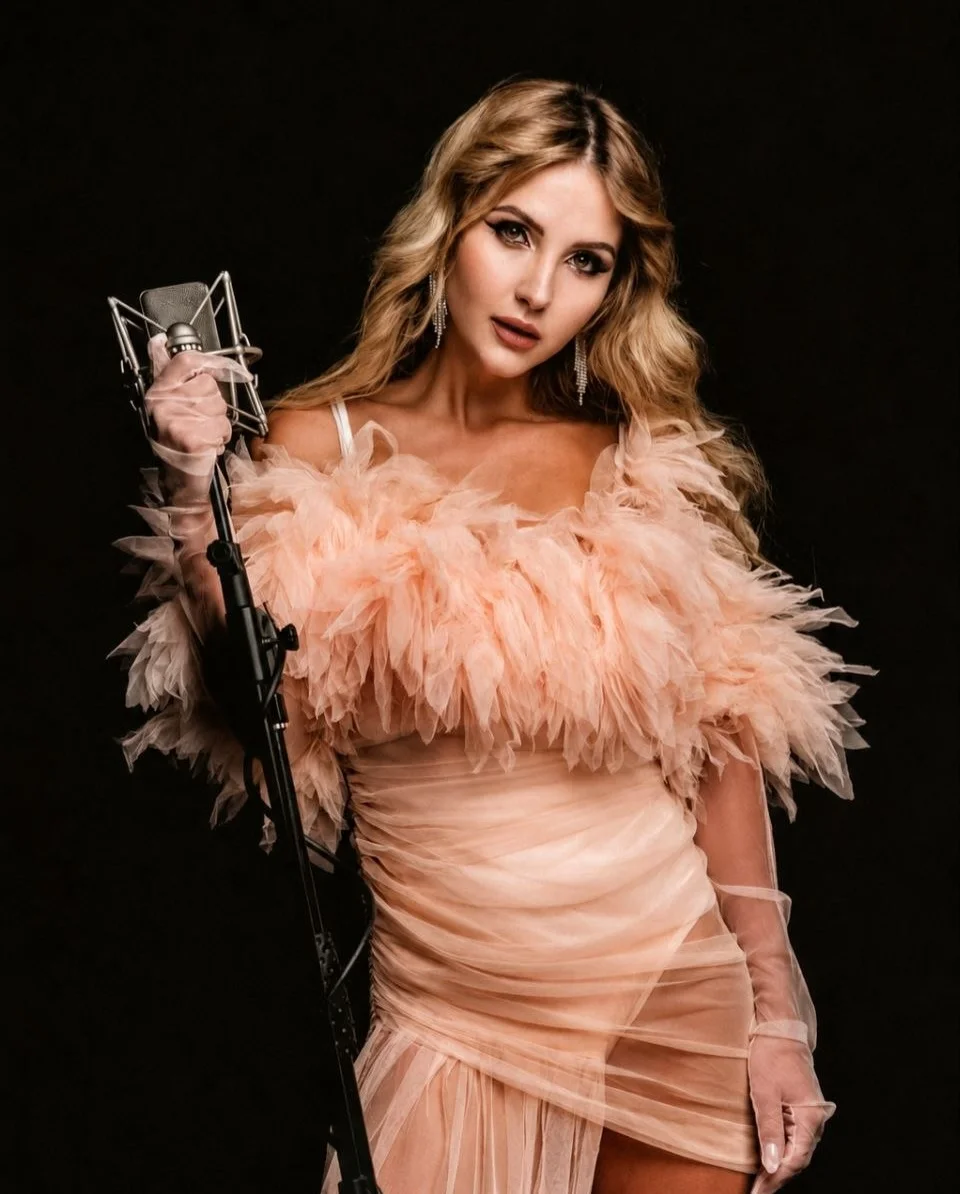
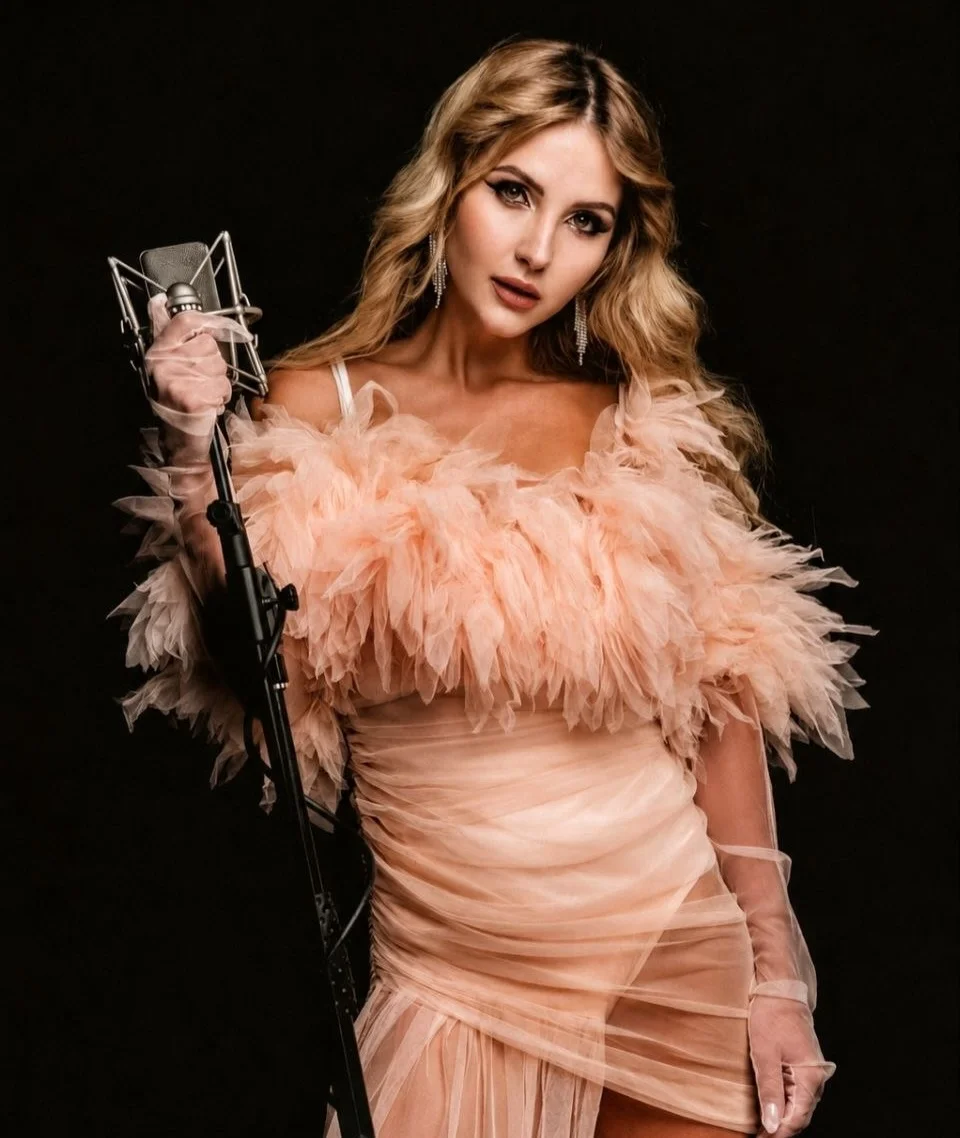
add: popup in About Section

diff --git a/src/components/About.tsx b/src/components/About.tsx
@@ -1,6 +1,11 @@
-import React from "react";
+"use client";
+
+import React, { useState } from "react";
+import { motion, AnimatePresence } from "framer-motion";
 
 export default function About() {
+  const [showAward, setShowAward] = useState(false);
+
   return (
     <section
       id="about"
@@ -24,7 +29,7 @@ export default function About() {
       </div>
 
       {/* Content Columns */}
-      <div className="flex flex-col lg:flex-row gap-12 lg:gap-20 items-start w-full">
+      <div className="flex flex-col lg:flex-row gap-12 lg:gap-20 lg:items-stretch items-center w-full">
         {/* Left Column - Image Stack */}
         <div className="relative w-full sm:w-[80%] md:w-[60%] lg:w-[40%] flex-shrink-0 flex flex-col">
           {/* Third Layer */}
@@ -56,24 +61,107 @@ export default function About() {
         </div>
 
         {/* Right Column - Text */}
-        <div className="w-full lg:w-[60%] flex flex-col gap-6 mt-8 lg:mt-0 py-4 text-base md:text-lg lg:text-xl text-gray-300 leading-relaxed font-medium">
+        <div className="w-full lg:w-[60%] flex flex-col justify-center gap-6 mt-8 lg:mt-0 py-4 text-base md:text-lg lg:text-xl text-gray-300 leading-relaxed font-medium">
           <p>
-            I am <strong className="text-white font-bold">SHAHOVA</strong> — a singer, songwriter, and live performer, creating elegant live music for weddings, private celebrations, corporate events, and exclusive occasions.
+            I am <strong className="text-white font-bold">SHAHOVA</strong> — a
+            singer, songwriter, and live performer, creating elegant live music
+            for weddings, private celebrations, corporate events, and exclusive
+            occasions.
           </p>
           <p>
-            Known for emotionally rich vocals, refined stage presence, and genuine connection with every audience, I believe that live music should never be just background—it should become one of the most memorable parts of your event.
+            Known for emotionally rich vocals, refined stage presence, and
+            genuine connection with every audience, I believe that live music
+            should never be just background — it should become one of the most
+            memorable parts of your event.
           </p>
           <p>
-            Alongside performing, I write original music in <strong className="text-white font-bold">English</strong>, <strong className="text-white font-bold">Ukrainian</strong>, and <strong className="text-white font-bold">Spanish</strong>, with more than <strong className="text-white font-bold">20 original songs</strong> released and written for both my own projects and other artists.
+            Alongside performing, I write original music in{" "}
+            <strong className="text-white font-bold">English</strong>,{" "}
+            <strong className="text-white font-bold">Ukrainian</strong>, and{" "}
+            <strong className="text-white font-bold">Spanish</strong>, with more
+            than{" "}
+            <strong className="text-white font-bold">20 original songs</strong>{" "}
+            released and written for both my own projects and other artists.
           </p>
           <p>
-            In <strong className="text-white font-bold">2025</strong>, my original song <strong className="text-white font-bold">Moonlight</strong> received <strong className="text-white font-bold">1st Place</strong> at the <strong className="text-white font-bold">London Songwriting Competition</strong>, while both the song and its official music video gained international recognition.
+            In <strong className="text-white font-bold">2025</strong>, my
+            original song{" "}
+            <strong className="text-white font-bold">Moonlight</strong> received{" "}
+            <span
+              className="cursor-pointer group"
+              onClick={() => setShowAward(true)}
+            >
+              <strong className="text-white font-bold group-hover:text-red-600 transition-colors duration-300">
+                1st Place
+              </strong>
+              <span className="group-hover:text-red-600 transition-colors duration-300">
+                {" at the "}
+              </span>
+              <strong className="text-white font-bold group-hover:text-red-600 transition-colors duration-300">
+                London Songwriting Competition
+              </strong>
+            </span>
+            , while both the song and its official music video gained
+            international recognition.
           </p>
           <p>
-            Every performance is thoughtfully tailored to the atmosphere of the occasion, creating an elegant musical experience that brings people together and leaves lasting memories long after the final note.
+            Every performance is thoughtfully tailored to the atmosphere of the
+            occasion, creating an elegant musical experience that brings people
+            together and leaves lasting memories long after the final note.
           </p>
         </div>
       </div>
+
+      {/* Award Modal */}
+      <AnimatePresence>
+        {showAward && (
+          <motion.div
+            initial={{ opacity: 0 }}
+            animate={{ opacity: 1 }}
+            exit={{ opacity: 0 }}
+            className="fixed inset-0 z-[60] flex items-center justify-center px-4 pb-4 pt-20 bg-black/60 backdrop-blur-2xl"
+            onClick={() => setShowAward(false)}
+          >
+            <motion.div
+              initial={{ y: 50, opacity: 0, scale: 0.95 }}
+              animate={{ y: 0, opacity: 1, scale: 1 }}
+              exit={{ y: 20, opacity: 0, scale: 0.95 }}
+              transition={{ type: "spring", stiffness: 300, damping: 30 }}
+              className="relative w-full max-w-2xl bg-[#0f0f0f] border border-white/10 p-8 md:p-12 shadow-[0_0_50px_rgba(0,0,0,0.8)] overflow-y-auto max-h-[90vh]"
+              onClick={(e) => e.stopPropagation()}
+            >
+              <button
+                onClick={() => setShowAward(false)}
+                className="absolute top-4 right-4 text-gray-500 hover:text-white transition-colors p-2"
+                aria-label="Close"
+              >
+                <svg
+                  xmlns="http://www.w3.org/2000/svg"
+                  className="h-8 w-8"
+                  fill="none"
+                  viewBox="0 0 24 24"
+                  stroke="currentColor"
+                >
+                  <path
+                    strokeLinecap="round"
+                    strokeLinejoin="round"
+                    strokeWidth={1.5}
+                    d="M6 18L18 6M6 6l12 12"
+                  />
+                </svg>
+              </button>
+
+              <div className="mt-4">
+                <img
+                  src="/image/Award.webp"
+                  alt="London Songwriting Competition Award"
+                  className="w-full h-auto object-contain"
+                />
+              </div>
+            </motion.div>
+          </motion.div>
+        )}
+      </AnimatePresence>
     </section>
   );
 }